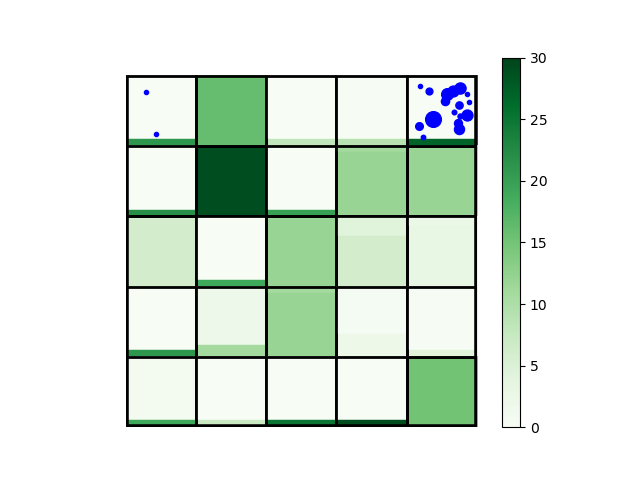
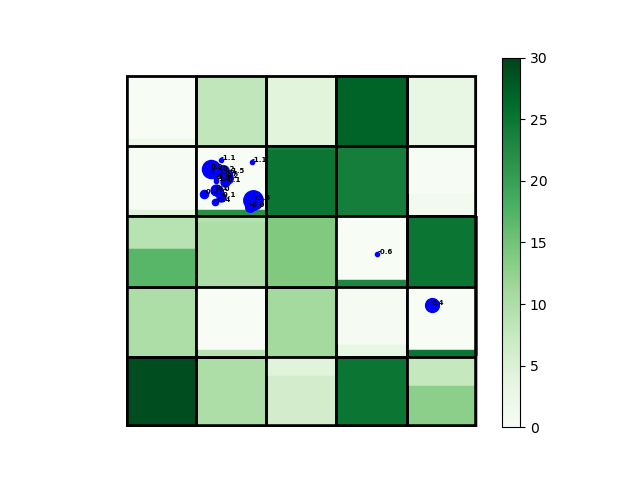
testing/debugging code, changed cell funding

Changed region(s): [[0.1875, 0.1562, 0.75, 0.9062], [0.2188, 0.1875, 0.25, 0.2188]]

diff --git a/classBoard.py b/classBoard.py
@@ -51,7 +51,7 @@ class Board():
         """turns a 2D matrix into a 1D list"""
         return [matrix[i][j] for j in range(len(matrix[0])) for i in range(len(matrix))]
 
-    def distributeFundingSci(self, dept, cellFunding):
+    def distributeFundingSci(self, cell, dept, cellFunding):
         """
         distribute the funding allotted for each cell to the scientists in the cell
         """
@@ -87,7 +87,7 @@ class Board():
     def distributeFundingCell(self, chooseCellToFund, funding, exp):
         """distributes funding to each cell based on input weights"""
         # Calculate the probabilities for each cell
-        probabilities = np.zeros_like(self.board)
+        probabilities = np.random.rand(self.rows, self.cols)
         denominator = 0
         for x in range(self.rows):
             for y in range(self.cols):
@@ -114,6 +114,19 @@ class Board():
 
                 denominator += (visWeight + starWeight + numHitsWeight + recentHitsWeight) ** exp
         
+        # generate random probabilities if denominator is 0
+        if denominator == 0:
+            sumProbs = sum(self.flatten(probabilities))
+            probabilities = [[probabilities[i][j] / sumProbs for j in range(len(probabilities[0]))] for i in range(len(probabilities))]
+            for i in range(len(probabilities)):
+                for j in range(len(probabilities[0])):
+                    #fund cell and then scientist based on probabilities
+                    cell = self.board[i][j]
+                    cell.funds = probabilities[i][j] * funding["total"]
+                    if cell.location in self.cellsHit.keys():
+                        self.distributeFundingSci(cell, self.cellsHit[cell.location], cell.funds)
+            return probabilities
+
         for j in range(self.rows):
             for k in range(self.cols):
                 cell = self.board[j][k]
@@ -143,7 +156,7 @@ class Board():
                 #fund cell and then scientist based on probabilities
                 cell.funds = probabilities[j][k] * funding["total"]
                 if cell.location in self.cellsHit.keys():
-                    self.distributeFundingSci(self.cellsHit[cell.location], cell.funds)
+                    self.distributeFundingSci(cell, self.cellsHit[cell.location], cell.funds)
         return probabilities
 
     def drawBoard(self, cellsHit, numRun):
@@ -199,8 +212,11 @@ class Board():
                         plt.plot(i+randX-0.5, j+randY-0.5,
                             marker="o", markersize=dotSize, markeredgecolor="blue",
                             markerfacecolor="blue")
+                        # uncomment the following code to display starFactor along with each scientist's dot
+                        plt.annotate(f"{starFactor:.1f}", xy = (i+randX-0.5, j+randY-0.5), xytext=(i+randX-0.5, j+randY-0.5),
+                            fontsize=5, fontweight='bold')
                 # uncomment and change the following code to display cell values on image
-                # plt.annotate(f"{self.getVisPayoff(cell.location):.2f}", xy = (i, j), xytext=(i-0.15, j+0.075),
+                # plt.annotate(f"{cell.funds:.2f}", xy = (i, j), xytext=(i-0.15, j+0.075),
                 #     fontsize=13, fontweight='bold')
                 gridlines = patches.Rectangle((i-0.5,j-0.5),
                                 1, 1,

diff --git a/classScientist.py b/classScientist.py
@@ -55,7 +55,7 @@ class Scientist():
         e = weights["exploration"]
 
         # Calculate the probabilities for each cell
-        probabilities = np.zeros_like(board.board)
+        probabilities = np.random.rand(board.rows, board.cols)
         denominator = 0
         for x in range(board.rows):
             for y in range(board.cols):
@@ -63,6 +63,12 @@ class Scientist():
                 denominator += ((c * cell.numSciHits) + \
                     (i * board.getVisPayoff(cell.location)) + (f * cell.funds) + \
                     (e * 1/(1+cell.numHits))) ** exp
+        
+        # generate random probabilities if denominator is 0
+        if denominator == 0:
+            sumProbs = sum(board.flatten(probabilities))
+            return [[probabilities[i][j] / sumProbs for j in range(len(probabilities[0]))] for i in range(len(probabilities))]
+            
         for j in range(board.rows):
             for k in range(board.cols):
                 cell = board.board[j][k]

diff --git a/Run.py b/Run.py
@@ -42,8 +42,8 @@ def batchRun(board, numScientists, numRuns):
     dept = [Scientist() for i in range(numScientists)]
     for j in range(numRuns):
         # keep track of which cells the scientists are hitting to check overlap
-        if j % funding["replenishTime"] == 0:
-            board.distributeFundingCell(chooseCellToFund, funding, exp)
+        # funding for the first year is determined randomly
+        board.distributeFundingCell(chooseCellToFund, funding, exp)
 
         # gives which scientists are at that location
         board.cellsHit = {}

diff --git a/classCell.py b/classCell.py
@@ -5,6 +5,9 @@ class Cell():
     def __init__(self, payoff, location, N, D, p):
         self.payoff = payoff
         self.location = location
+        self.N = N
+        self.D = D
+        self.p = p
         self.numHits = 0
         self.lowerx, self.upperx, self.yList = self.logiFunc(N, D)
         self.stepSize, self.slopeVals = self.setStepSize(D, p)
